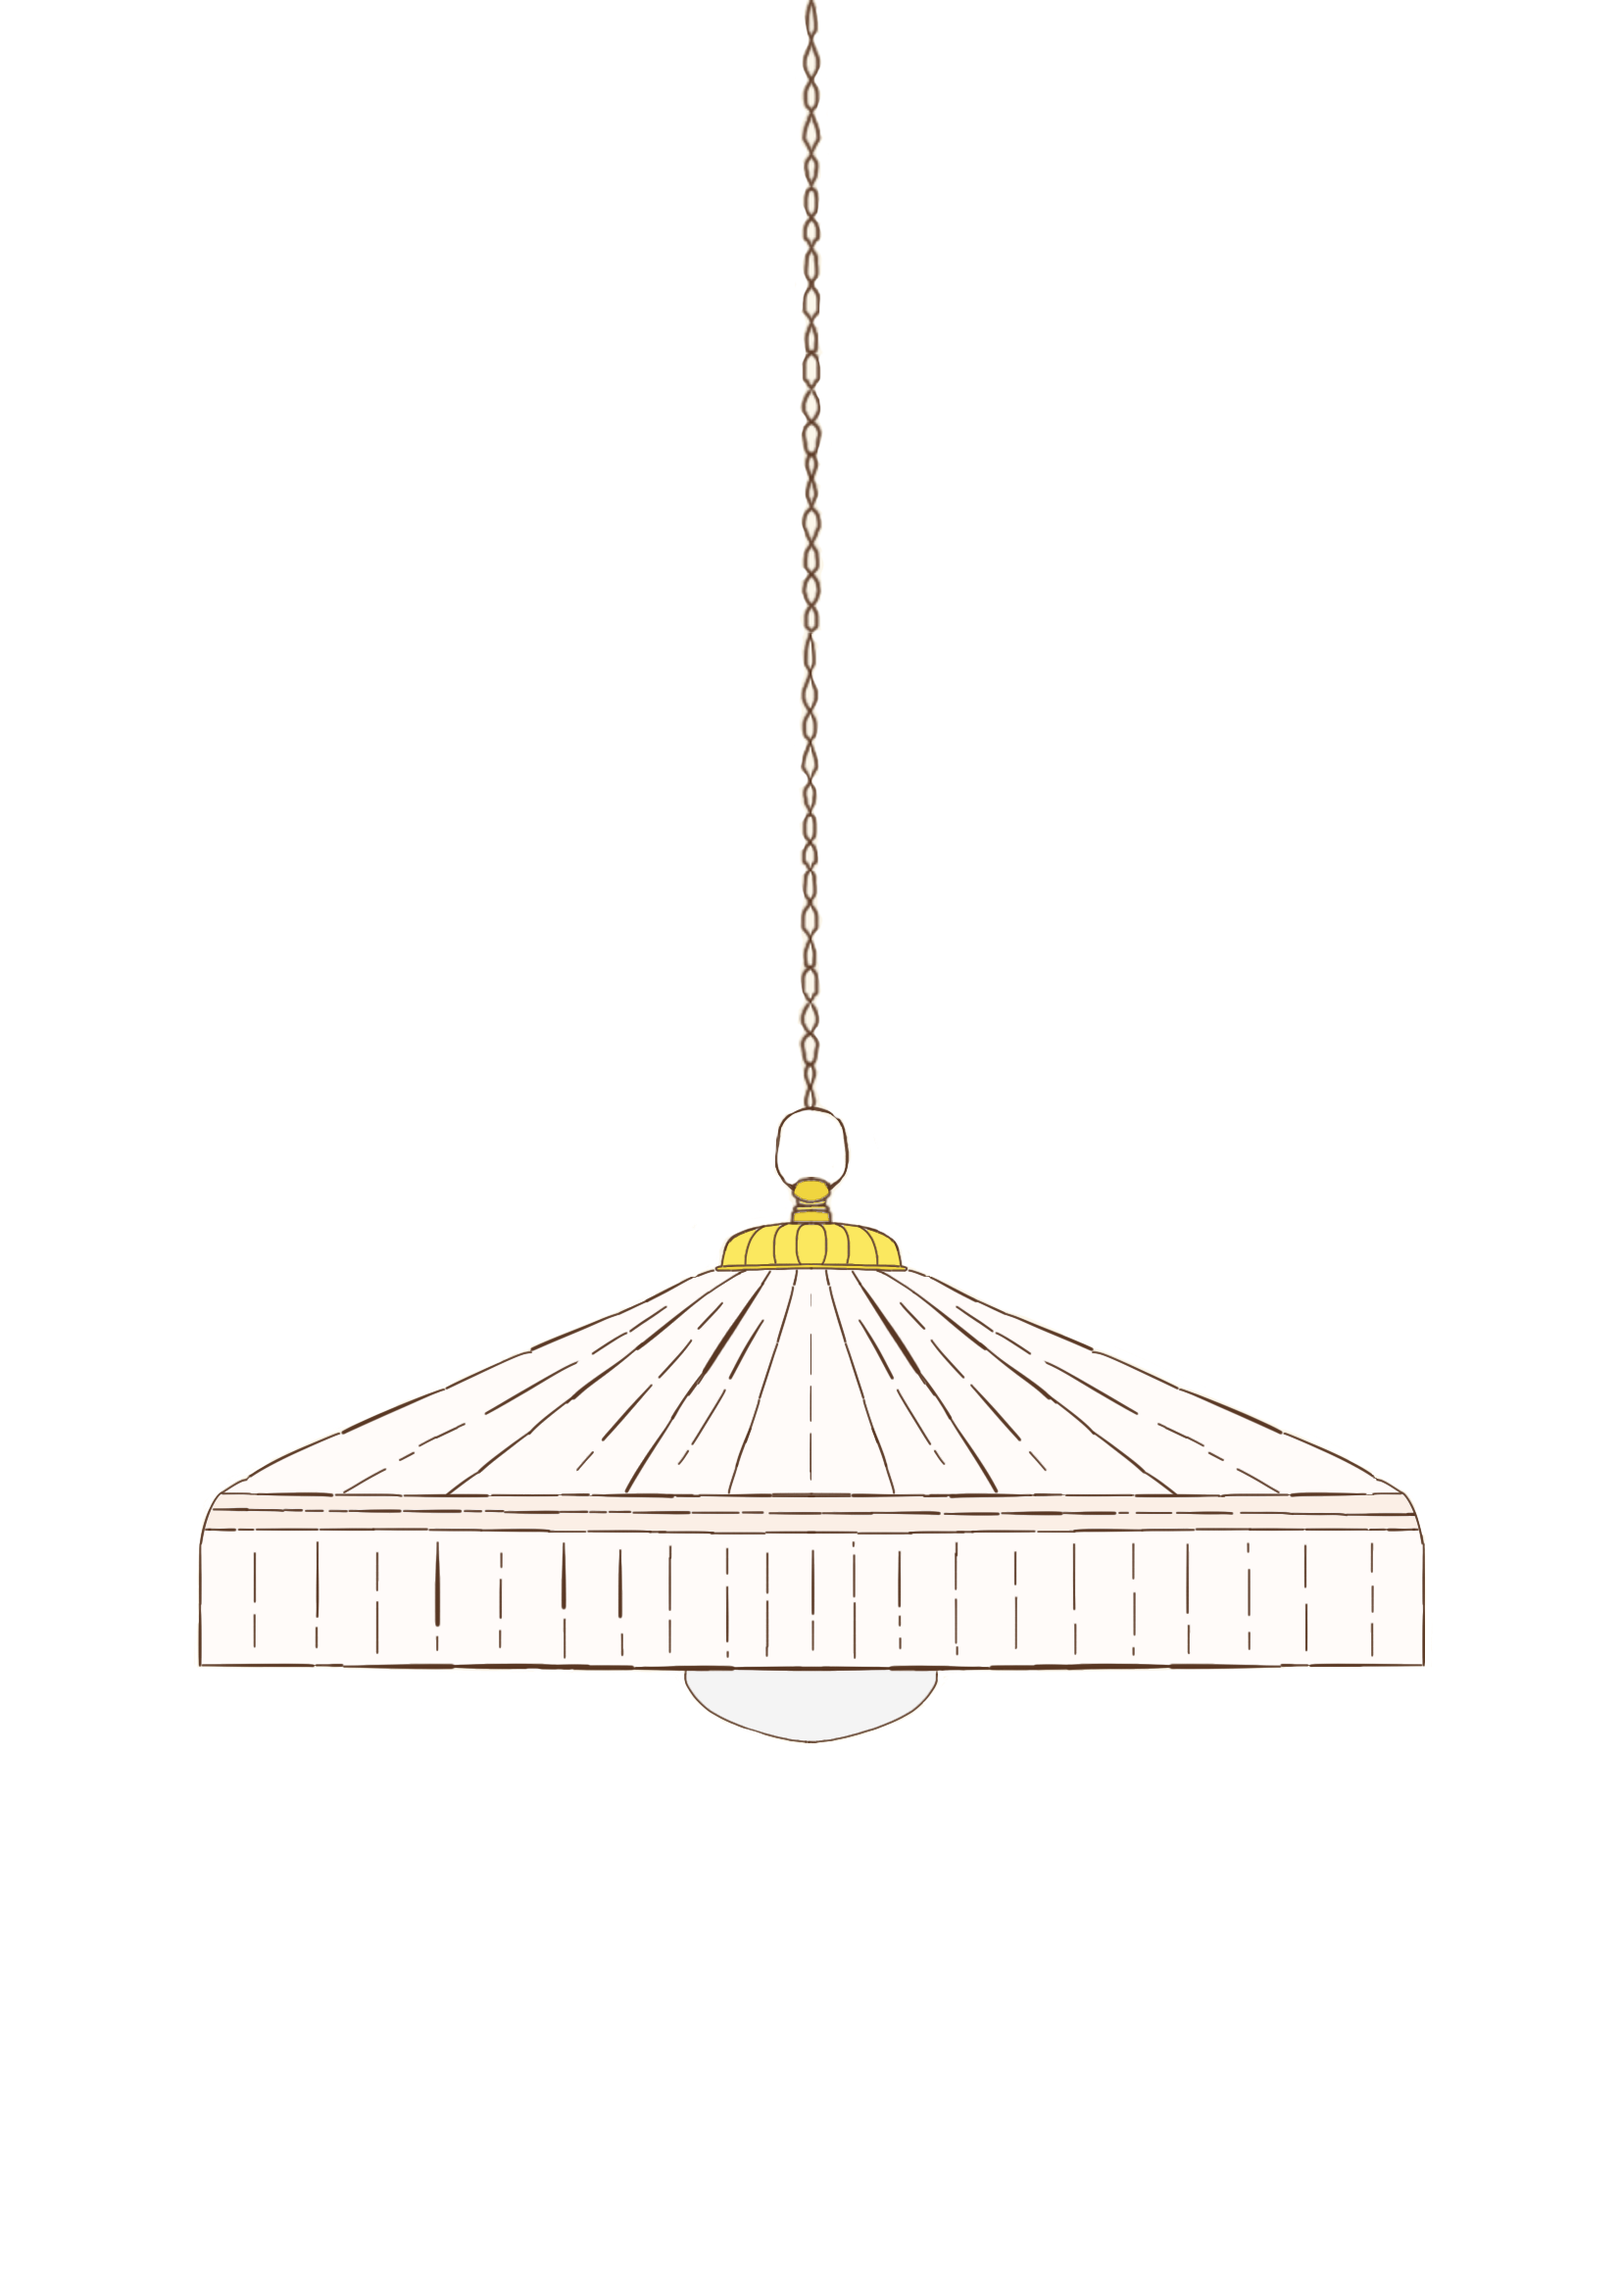
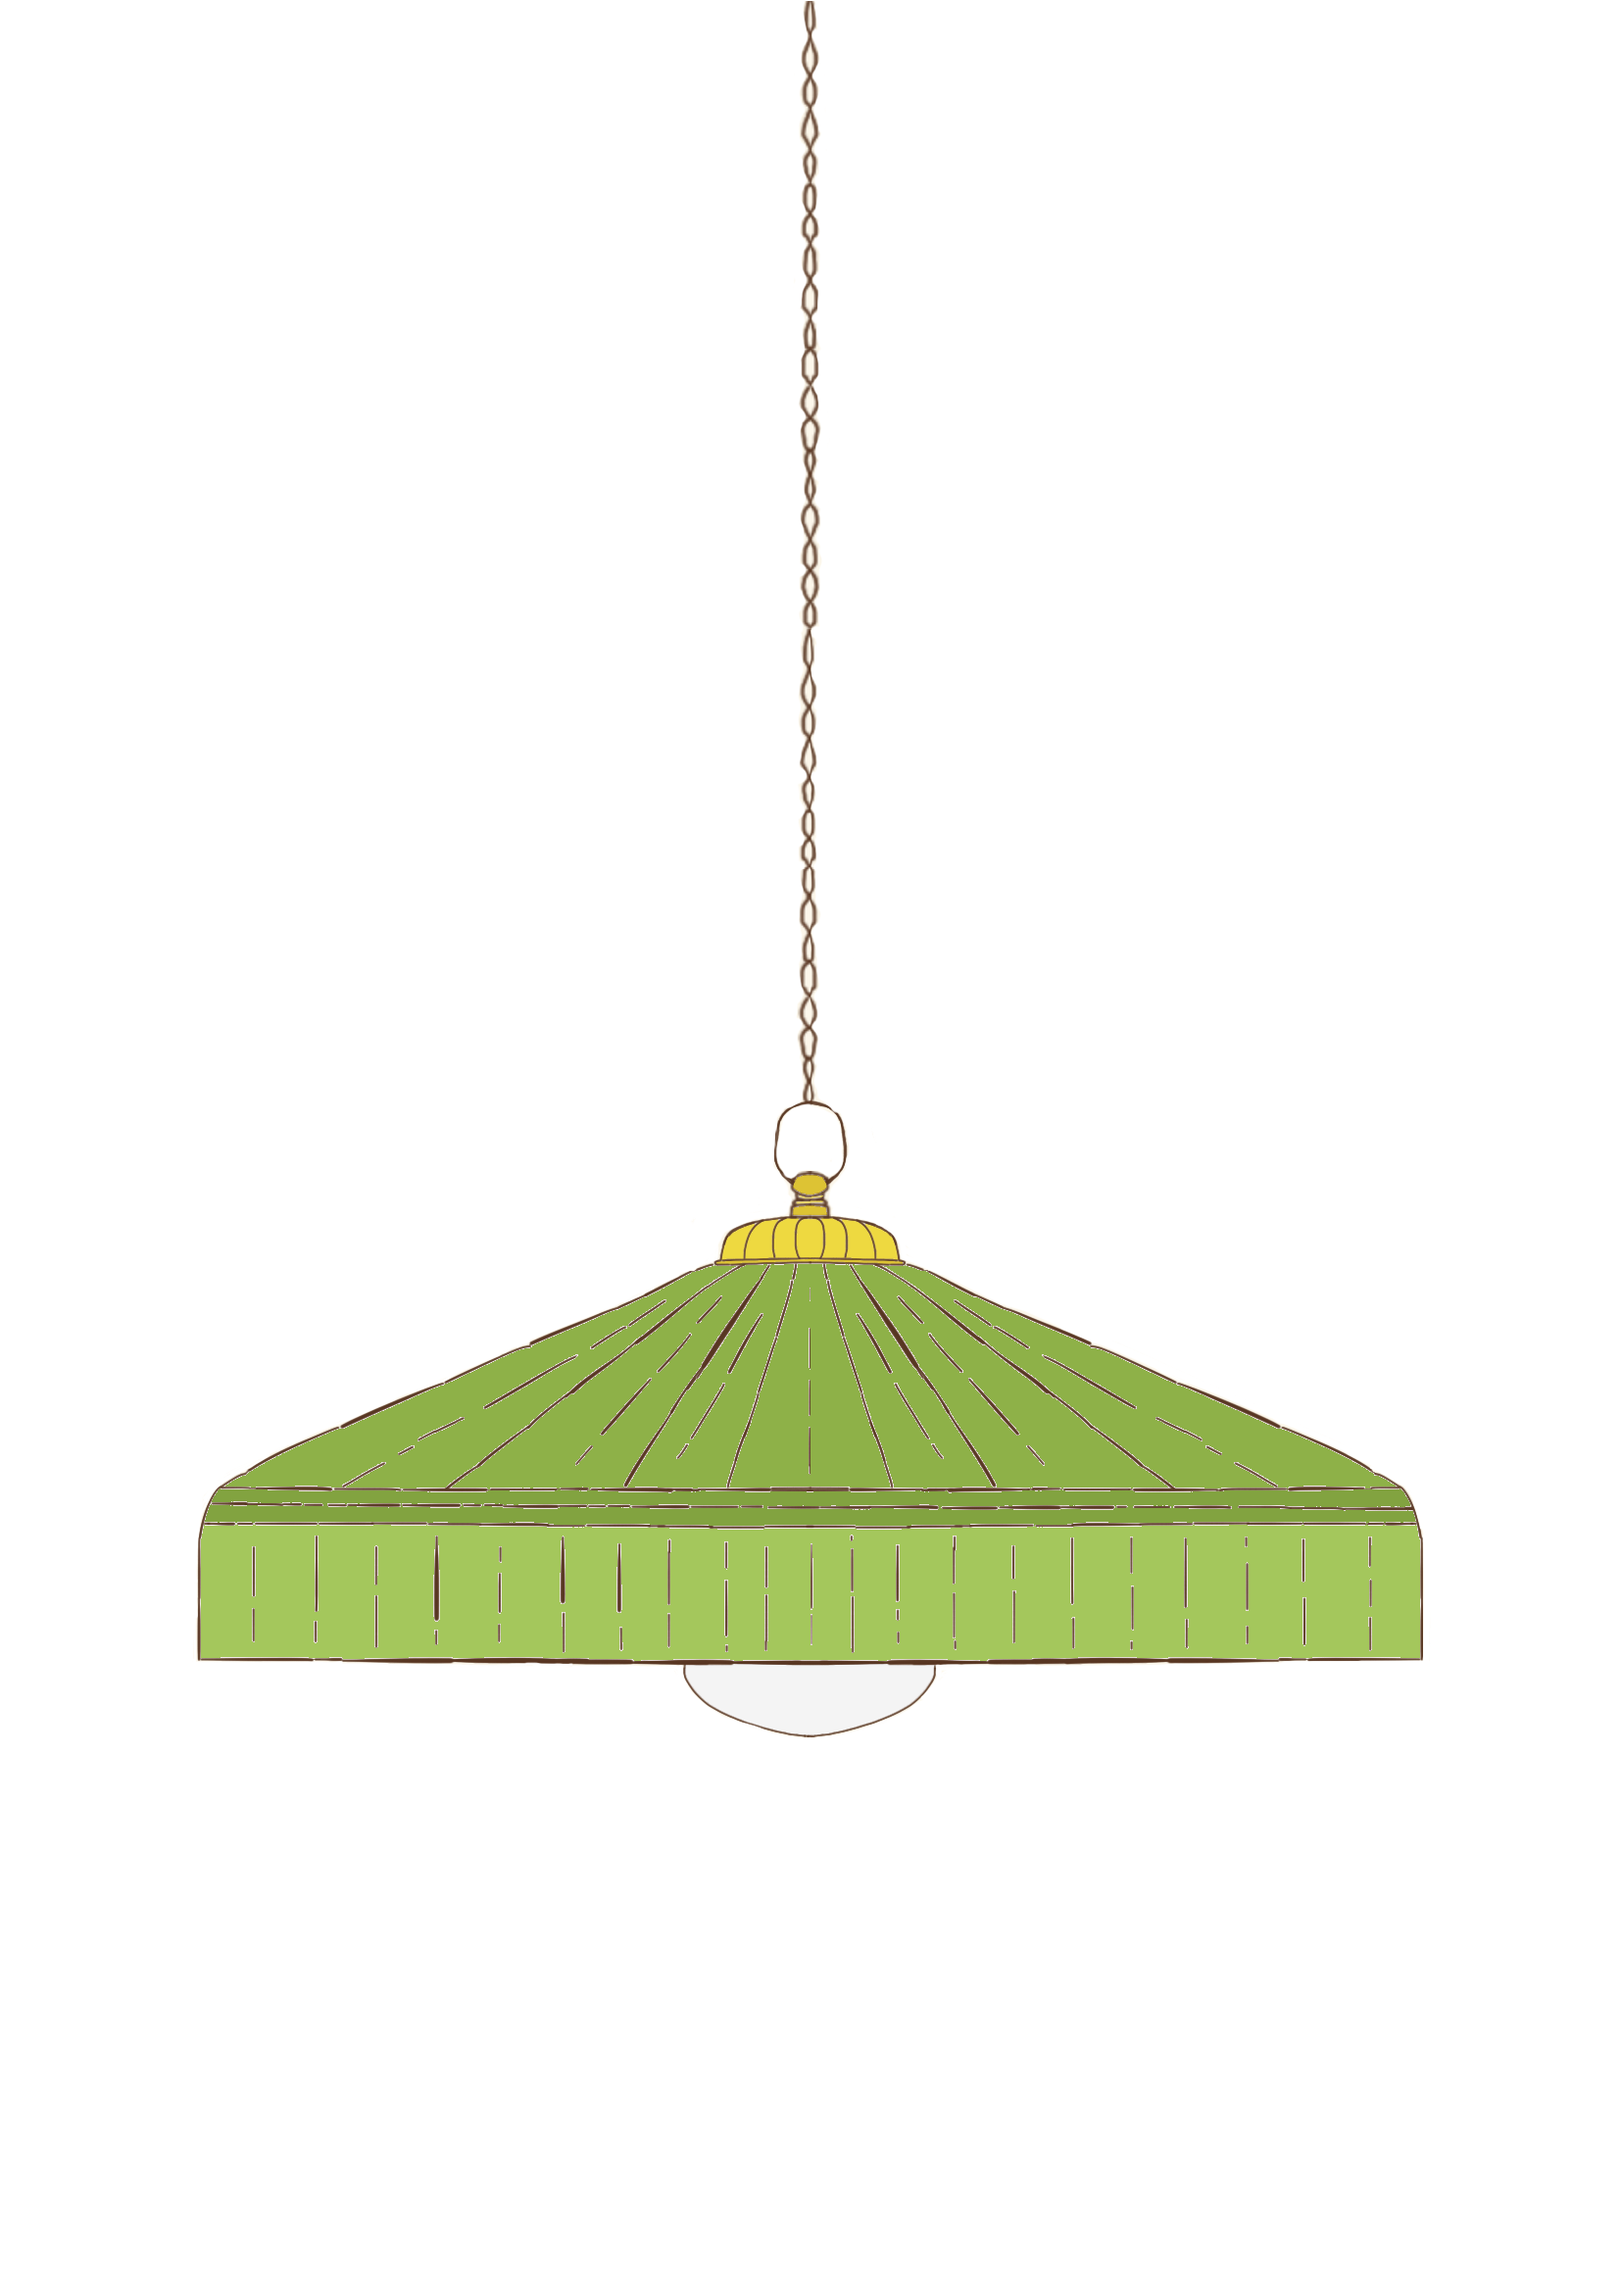
Changed lamp color from white to green

Changed region(s): [[0.1233, 0.0, 0.8942, 0.749]]

diff --git a/styles.css b/styles.css
@@ -1723,8 +1723,8 @@ body {
   position: absolute;
   height: 400px;
   width: 280px;
-  left: 1170.4px;
-  top: -59.5px;
+  left: 1170.235px;
+  top: -60.295px;
 }
 
 .lampCord {
